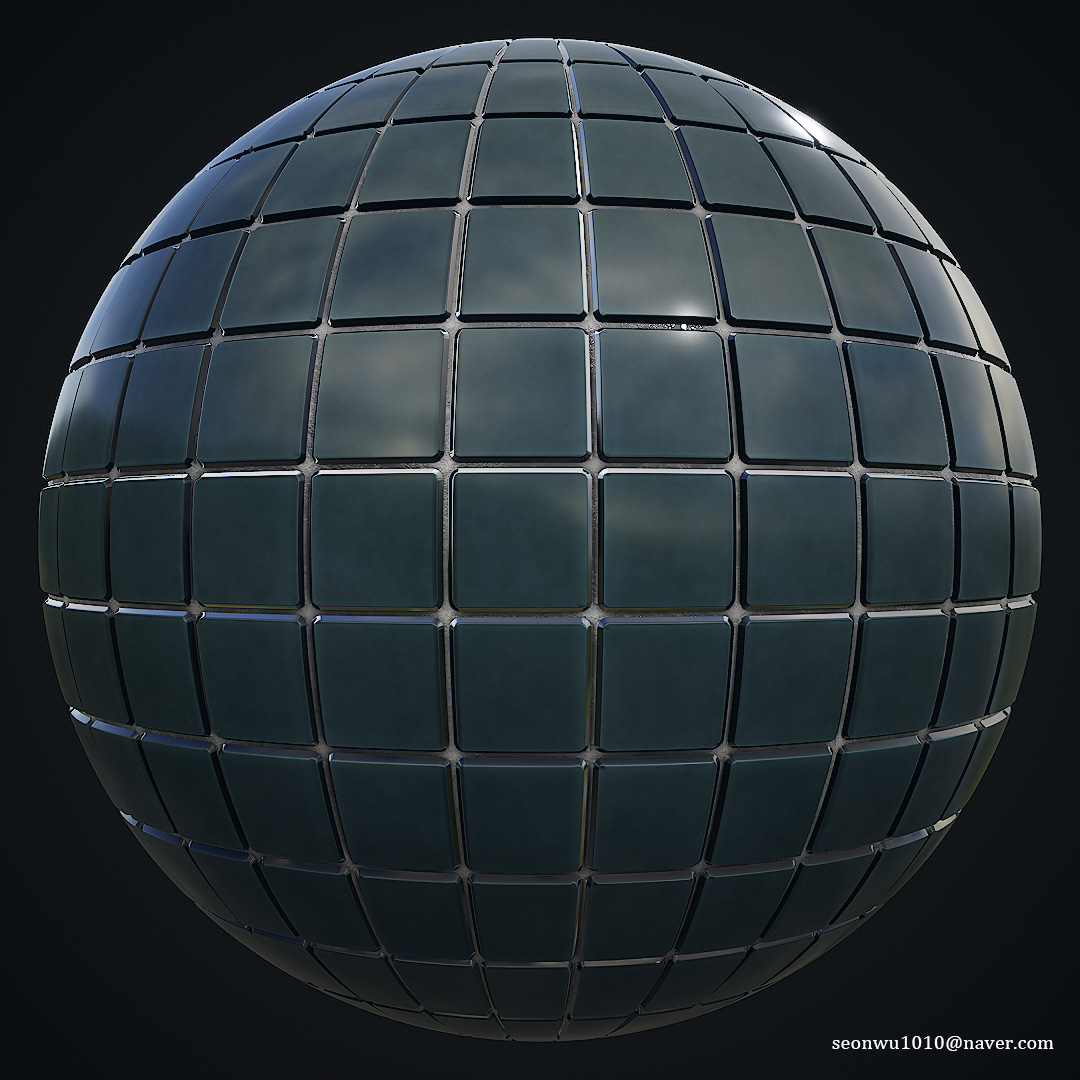
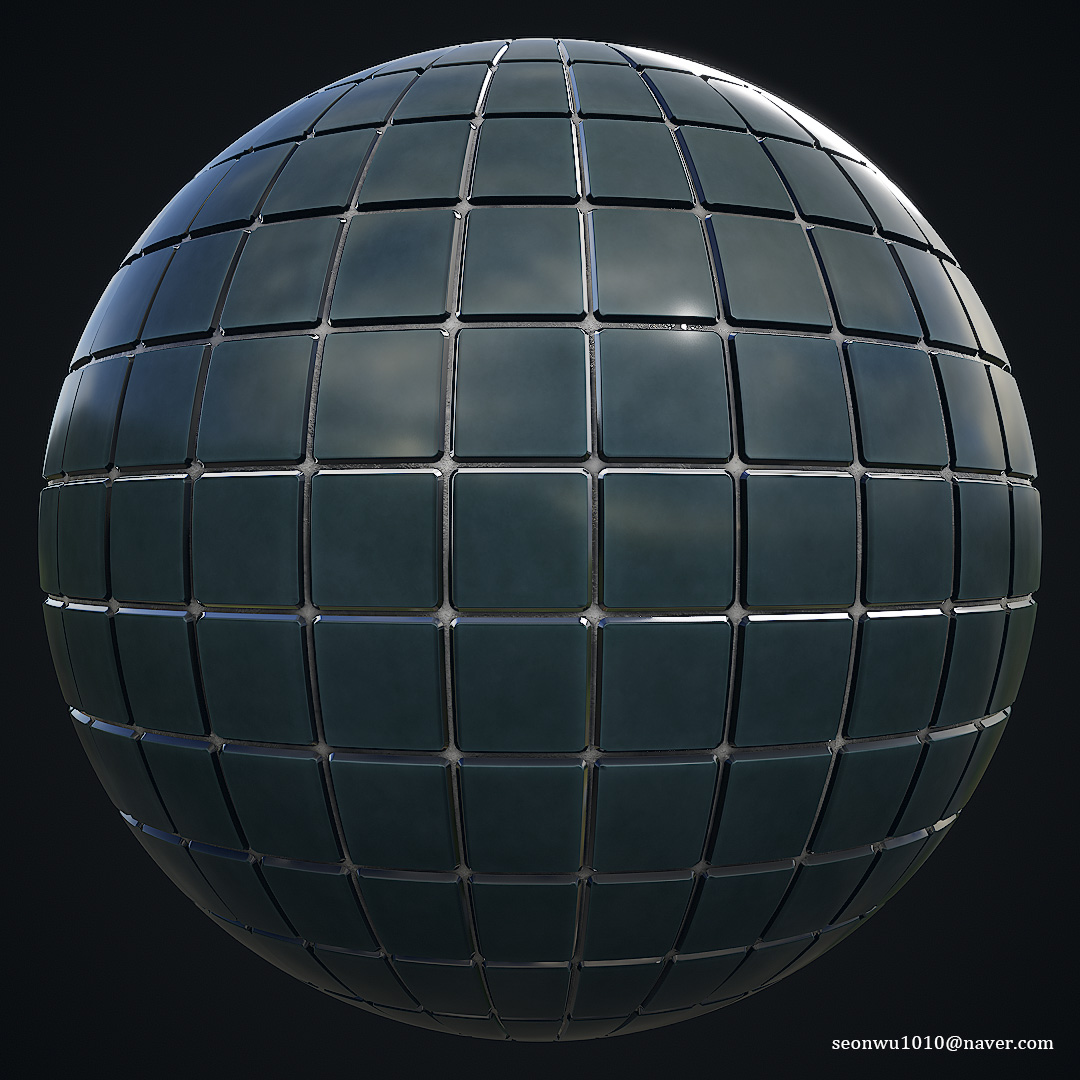
Update Substance Designer photos 1 through 3

diff --git a/app.js b/app.js
@@ -59,6 +59,9 @@ const projectDescriptions = {
 const byId = Object.fromEntries([...projects, ...substanceProjects, ...universityProjects].map(project => [project.id, project]));
 // Refresh renamed/replaced images even when the browser cached the same filename.
 const imageRevisions = {
+  "Substance Designer/1.jpg": "50b0ed7d1e20",
+  "Substance Designer/2.jpg": "c255e66fa72a",
+  "Substance Designer/3.jpg": "5c3059666ecb",
   "Personal/202610_Carriage/0.png": "a082d4d9e335",
   "Personal/202610_Carriage/1.png": "0a0ee3589a7b",
   "Personal/202610_Carriage/4.jpg": "ed37ab84b78e",

diff --git a/index.html b/index.html
@@ -83,7 +83,7 @@
       </aside>
     </dialog>
     <div id="toast" class="toast" role="status" aria-live="polite"></div>
-    <script src="app.js?v=carriage-gallery-v2"></script>
+    <script src="app.js?v=substance-images-20261027"></script>
     <script src="https://www.youtube.com/iframe_api" async></script>
   </body>
 </html>
